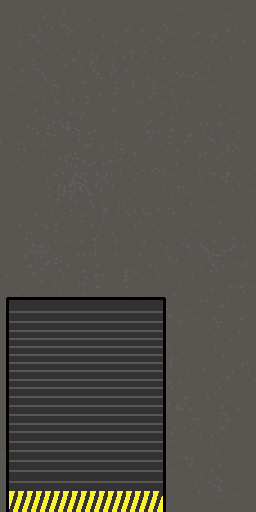
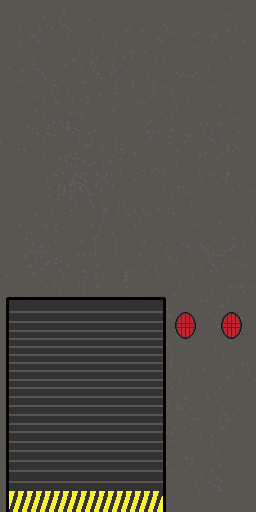
Update turret wall sprite to add warning lights and update shader for the wall to position the lights correctly

Changed region(s): [[0.8438, 0.5938, 0.9688, 0.6875], [0.6875, 0.5938, 0.7812, 0.6875]]

diff --git a/src/game/worldEntities/SafeZone/SafeZoneTurretWall.ts b/src/game/worldEntities/SafeZone/SafeZoneTurretWall.ts
@@ -70,8 +70,8 @@ export class SafeZoneTurretWall implements Entity, Collidable {
             },
             {
                 u_lightCount: 2n,
-                u_lightSize: [[100], [100]],
-                u_lightPos: [[200, 172], [200, 340]],
+                u_lightSize: [[60], [60]],
+                u_lightPos: [[185, 187], [231, 187]],
                 u_lightColor: [[0.83137254901961, 0.0156862745098, 0.0156862745098, 1.0], [0.83137254901961, 0.0156862745098, 0.0156862745098, 1.0]], // rgba
                 u_ambient: 0.95 //TODO: Change depending on time of day
             }
